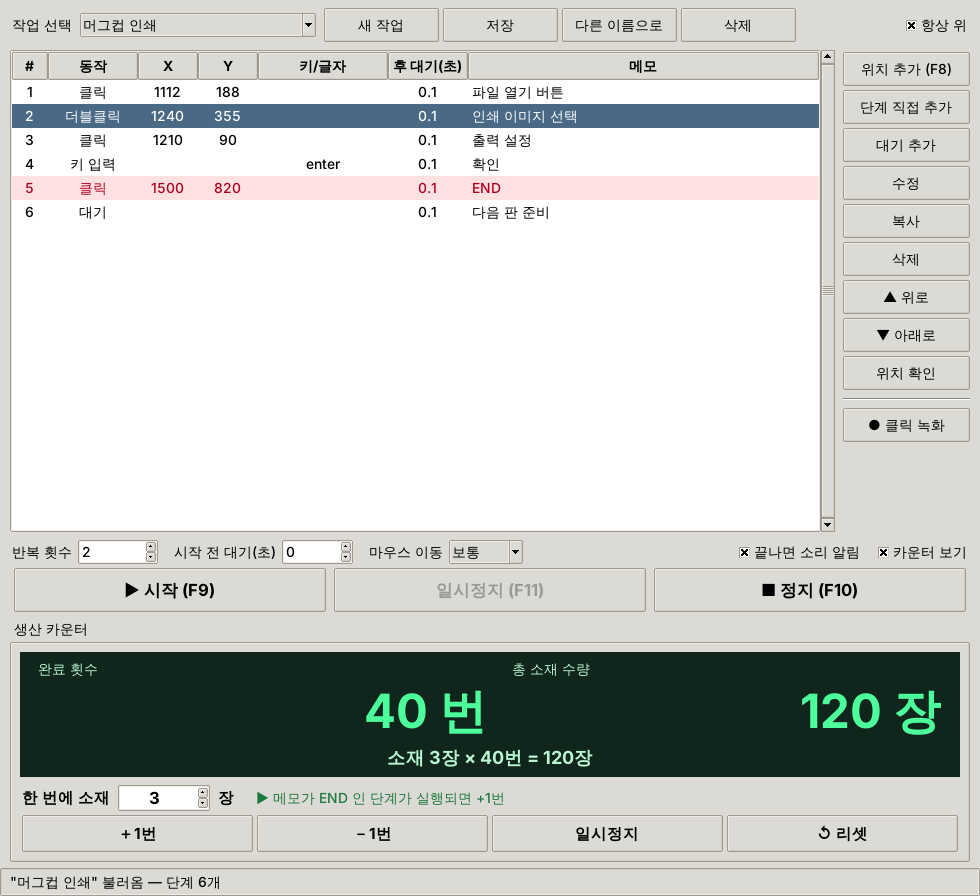
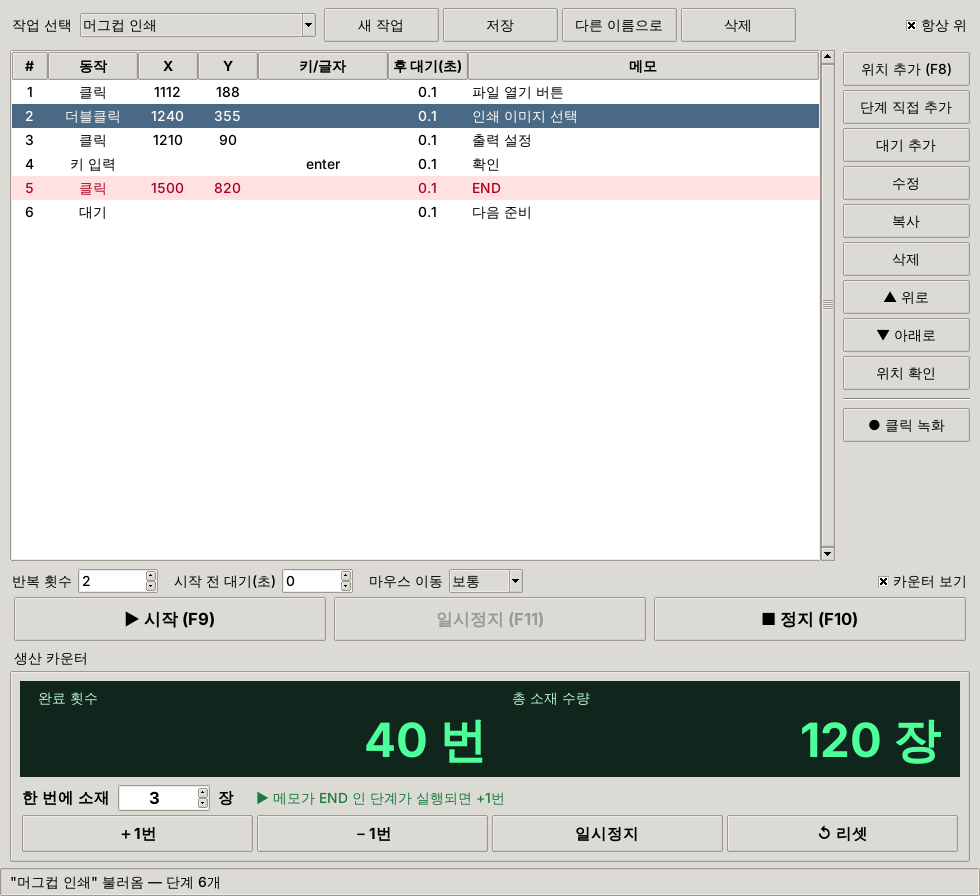
Hide counter formula line and remove finish sound
Claude-Session: https://claude.ai/code/session_01HgvnrPN9frqDVCJ1qnZ6b3

Changed region(s): [[0.0, 0.5938, 0.9796, 0.875], [0.8265, 0.3125, 0.8571, 0.3438], [0.5204, 0.2188, 0.551, 0.25]]

diff --git a/uv-click-macro/macro_app.py b/uv-click-macro/macro_app.py
@@ -121,28 +121,6 @@ def is_end(step):
     return step.get("memo", "").strip().upper() == "END"
 
 
-def play_alarm(kind="done"):
-    """끝났을 때 소리 알림 (따로 실행되어 프로그램이 멈추지 않음)"""
-    def run():
-        try:
-            import winsound
-            if kind == "done":
-                for _ in range(2):
-                    for f in (880, 1175, 1568):
-                        winsound.Beep(f, 160)
-                    time.sleep(0.15)
-            else:
-                for _ in range(3):
-                    winsound.Beep(440, 400)
-                    time.sleep(0.1)
-        except Exception:
-            try:
-                print("\a", end="", flush=True)
-            except Exception:
-                pass
-    threading.Thread(target=run, daemon=True).start()
-
-
 class StepDialog(tk.Toplevel):
     """단계 추가/수정 창"""
 
@@ -421,15 +399,7 @@ class MacroApp:
         self.show_tools = tk.BooleanVar(value=self.settings.get("show_tools", True))
         ttk.Checkbutton(opt, text="카운터 보기", variable=self.show_tools,
                         command=self._apply_show_tools).pack(side="right")
-        self.sound_on = tk.BooleanVar(value=self.settings.get("sound", True))
-        ttk.Checkbutton(opt, text="끝나면 소리 알림", variable=self.sound_on,
-                        command=self._save_sound_option).pack(side="right", padx=(0, 12))
         self._apply_show_tools()
-
-    def _save_sound_option(self):
-        self.settings["sound"] = bool(self.sound_on.get())
-        if self.sound_on.get():
-            play_alarm("done")      # 어떤 소리인지 한 번 들려주기
 
     def _apply_show_tools(self):
         if self.show_tools.get():
@@ -461,10 +431,6 @@ class MacroApp:
                            font=("맑은 고딕", 34, "bold"))
             lbl.pack(fill="x")
             self.count_widgets.append(lbl)
-        self.formula_var = tk.StringVar()
-        self.formula_label = tk.Label(panel, textvariable=self.formula_var, bg=BG, fg=FG2,
-                                      font=("맑은 고딕", 13, "bold"))
-        self.formula_label.grid(row=1, column=0, columnspan=2, pady=(2, 0))
 
         # 한 번 소재 수량 + 세는 방법 안내
         row1 = ttk.Frame(box)
@@ -522,7 +488,6 @@ class MacroApp:
         n = self._per_plate()
         self.plates_var.set(f"{self.count:,} 번")
         self.total_var.set(f"{self.count * n:,} 장")
-        self.formula_var.set(f"소재 {n:,}장 × {self.count:,}번 = {self.count * n:,}장")
         self._update_count_rule()
 
     def _update_count_rule(self):
@@ -1020,11 +985,6 @@ class MacroApp:
         self.pause_btn.state(["disabled"])
         self.pause_btn.config(text="일시정지 (F11)")
         self.status.set(f"{reason}  ({time.strftime('%H:%M:%S')})")
-        if self.sound_on.get():
-            if reason == "완료":
-                play_alarm("done")
-            elif reason != "정지됨":
-                play_alarm("error")
 
     def _on_close(self):
         if self.running:
@@ -1033,7 +993,6 @@ class MacroApp:
             return
         self.settings["topmost"] = bool(self.topmost.get())
         self.settings["speed"] = self.speed_var.get()
-        self.settings["sound"] = bool(self.sound_on.get())
         if self.macro["name"]:
             self.settings["last_macro"] = self.macro["name"]
         save_settings(self.settings)
